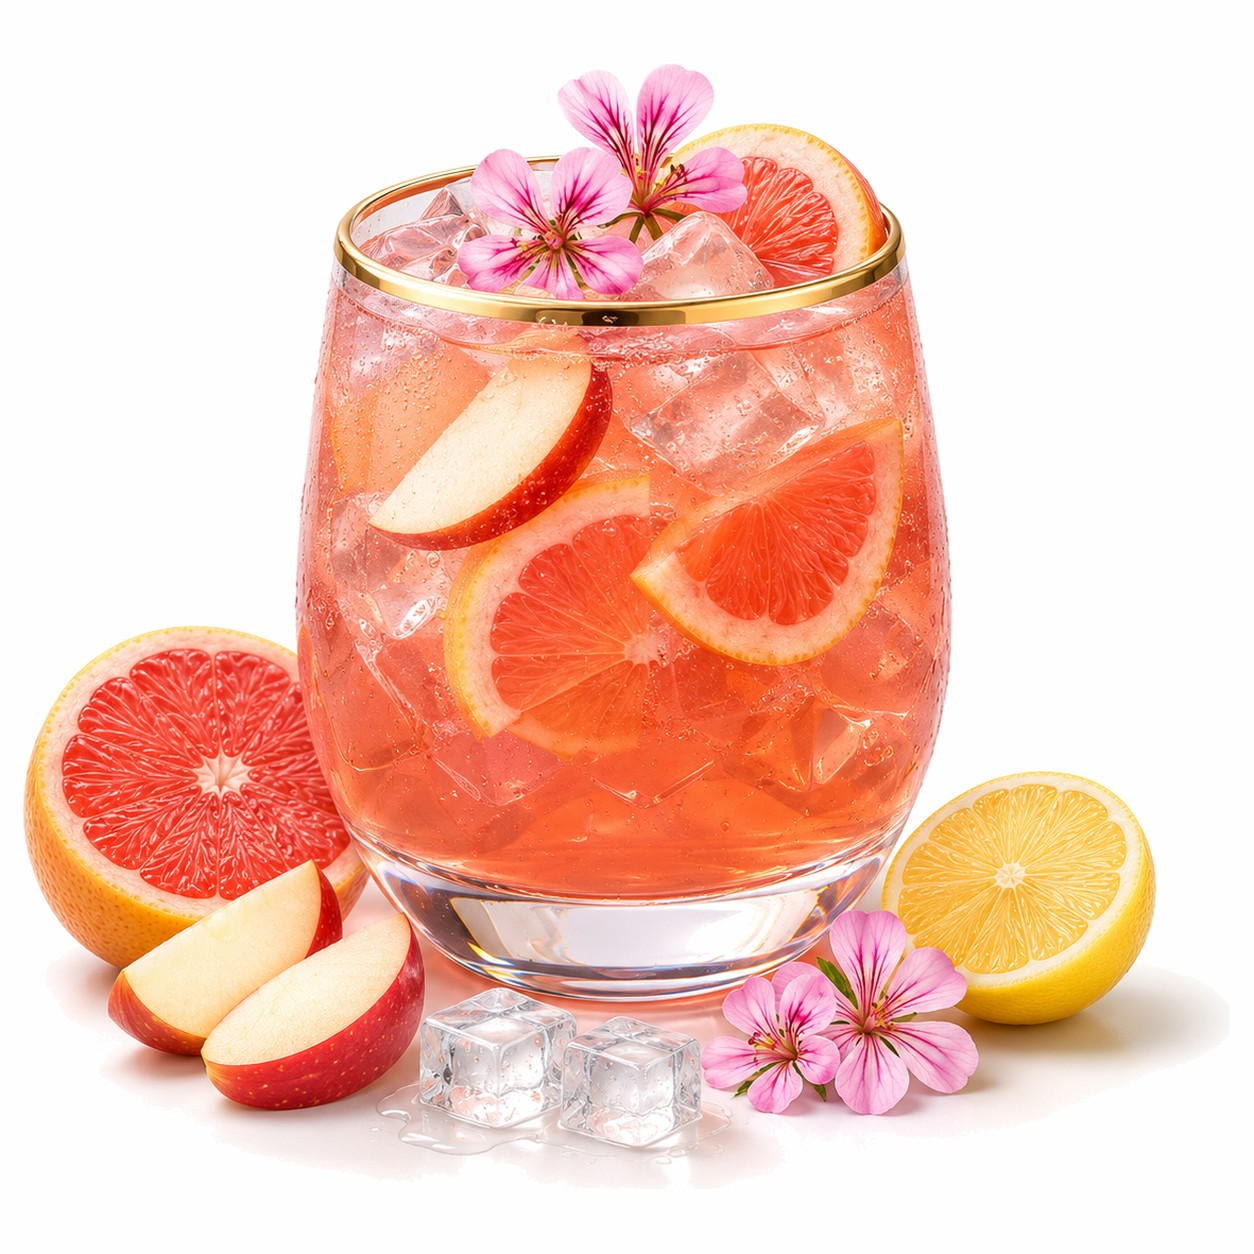
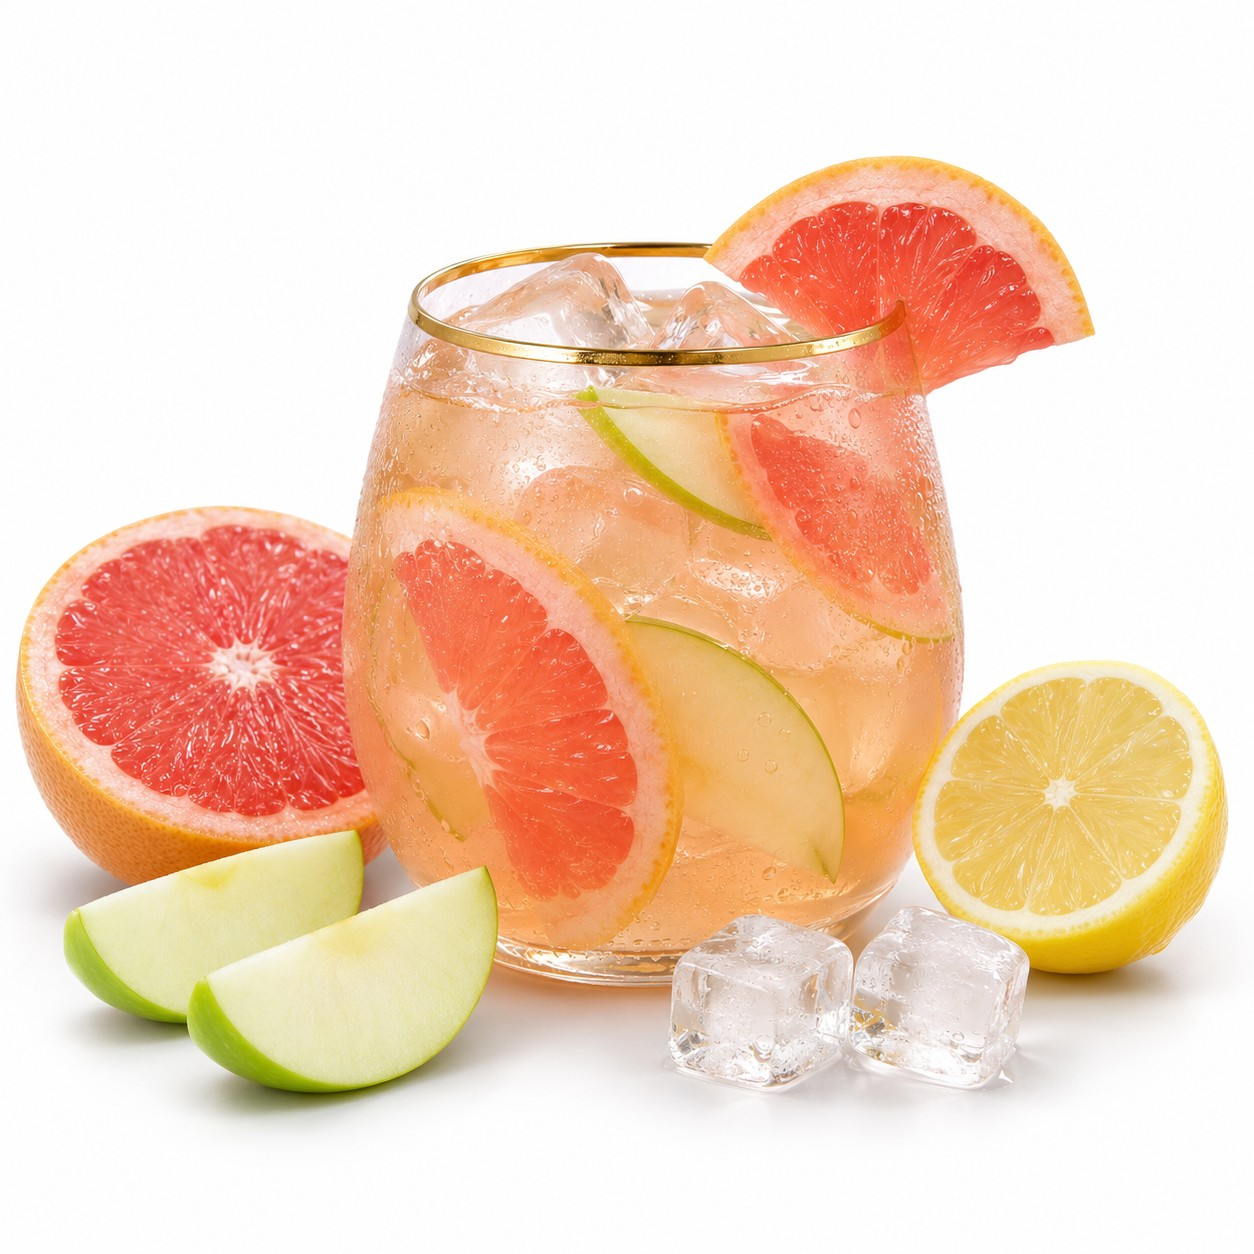
E-shop: Dům u jezera – nová hlavní fotka bez květů pelargonie
Claude-Session: https://claude.ai/code/session_016QL8fwi582oSosBu6SYFuT

diff --git a/dashboard/lib/eshop/productImages.ts b/dashboard/lib/eshop/productImages.ts
@@ -104,6 +104,7 @@ const BACKDROP: Record<string, string> = {
   "/eshop/koktejly/granatovy-bond-begina-v2.jpg": "#fefefe",
   "/eshop/polevky/gulasova-polevka-z-hlivy-ustricne-hlavni.jpg": "#fefefe",
   "/eshop/ovocne-napoje/dum-u-jezera-hlavni-v2.jpg": "#fefefe",
+  "/eshop/ovocne-napoje/dum-u-jezera-hlavni-v3.jpg": "#fefefe",
   "/eshop/koktejly/lady-carneval-hlavni-v2.jpg": "#fefefe",
   "/eshop/koktejly/lady-carneval-begina-v4.jpg": "#fefefe",
   "/eshop/koktejly/lady-carneval-sacek-v2.jpg": "#fefefe",
